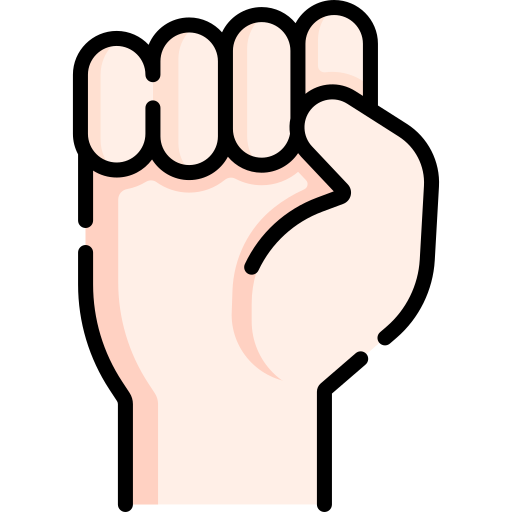
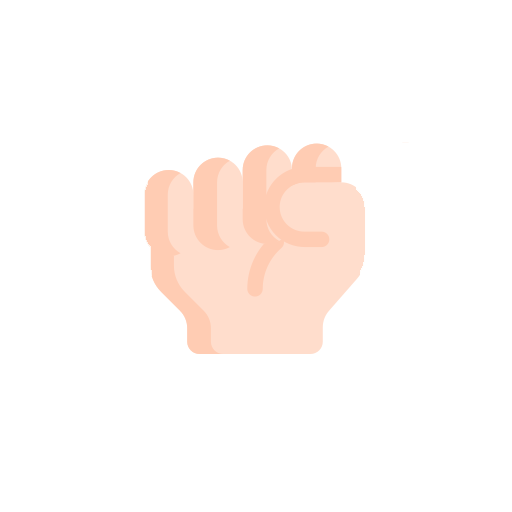
style: 가위바위보 페이지 수정

Changed region(s): [[0.125, 0.0, 0.875, 1.0], [0.5938, 0.6875, 0.7188, 1.0]]

diff --git a/src/pages/Game/Rps.js b/src/pages/Game/Rps.js
@@ -7,6 +7,10 @@ import RpsImage from "../../assets/Game/Rps.png";
 import SideBar from "../../components/SideBar/SideBar";
 import SideBarContents from "../../components/SideBar/SideBarContents";
 
+import rock from "../../assets/Game/rock.png";
+import paper from "../../assets/Game/paper.png";
+import scissors from "../../assets/Game/scissors.png";
+
 
 const Background = styled.div`
     max-width: 100vw;
@@ -20,8 +24,7 @@ const Background = styled.div`
 `;
 
 const Image = styled.img`
-    width: 50vw;
-    margin-top: 128px;
+    width: 80vw;
 `;
 
 const Title = styled.div`
@@ -39,7 +42,7 @@ const ButtonContainer = styled.div`
 
 const ChoiceButton = styled.button`
     background-color: ${props => props.isSelected ? "#7000FF" : "#333"};
-    justify-content: flex-end; 
+    justify-content: flex-start; 
     align-items: center;
     display: flex;
     flex-direction: column;
@@ -48,7 +51,6 @@ const ChoiceButton = styled.button`
     width: 110px;
     height: 106px;
     margin: 51px 3px 0px;
-    padding-bottom:7px;
     font-size: 14px;
     cursor: pointer;
     border-radius: 4px;
@@ -59,7 +61,15 @@ const ChoiceButton = styled.button`
 
     `;
 
-const Ifwin = styled.div`
+const RPSimg = styled.img`
+    width: 110px;
+    margin: -17%;
+    @media (max-width: 280px) {
+        width: 100px;
+        }
+`
+
+const Text = styled.div`
     margin-top: 48px;
     font-size: 14px;
     @media (max-width: 280px) {
@@ -108,17 +118,24 @@ const Rps = () => {
             <Logo /> {/*수정필요..*/}
             <SideBar><SideBarContents/></SideBar>
             <Title>수리와 가위바위보 하기</Title>
-            <Image src={RpsImage} alt="가위바위보이미지" />
+            <Text style={{marginTop:"12px"}}>수리를 이길 수 있을까?</Text>
+            <Image src={RpsImage} alt="수리이미지" />
             
 
 
             <ButtonContainer>
-            <ChoiceButton isSelected={selectedChoice === "가위"} onClick={() => handleChoiceClick("가위")}>가위</ChoiceButton>
-                <ChoiceButton isSelected={selectedChoice === "바위"} onClick={() => handleChoiceClick("바위")}>바위</ChoiceButton>
-                <ChoiceButton isSelected={selectedChoice === "보"} onClick={() => handleChoiceClick("보")}>보</ChoiceButton>
+                <ChoiceButton isSelected={selectedChoice === "가위"} onClick={() => handleChoiceClick("가위")}>
+                    <RPSimg src={scissors}/>가위
+                </ChoiceButton>
+                <ChoiceButton isSelected={selectedChoice === "바위"} onClick={() => handleChoiceClick("바위")}>
+                    <RPSimg src={rock}/>바위
+                </ChoiceButton>
+                <ChoiceButton isSelected={selectedChoice === "보"} onClick={() => handleChoiceClick("보")}>
+                    <RPSimg src={paper}/>보
+                </ChoiceButton>
             </ButtonContainer>
 
-            <Ifwin>가위바위보에서 이기면 100P를 얻을 수 있어요!</Ifwin>
+            <Text>가위바위보에서 이기면 100P를 얻을 수 있어요!</Text>
             <ConfirmButton onClick={handleConfirmClick}>가위바위보 !</ConfirmButton>
         </Background>
         </div>

diff --git a/src/pages/Minting.js b/src/pages/Minting.js
@@ -46,7 +46,6 @@ const Minting = () => {
     font-weight: 800;
     margin-top: 35px;
     margin-left: 10px;
-    font-family: 'Inter';
   `;
 
   const KoYonDivRed = styled.div`
@@ -56,7 +55,6 @@ const Minting = () => {
     font-weight: 800;
     margin-top: 35px;
     margin-left: 10px;
-    font-family: 'Inter';
   `;
 
   const KoYonDivBlue = styled.div`
@@ -66,7 +64,6 @@ const Minting = () => {
     font-weight: 800;
     margin-top: 35px;
     margin-left: 10px;
-    font-family: 'Inter';
   `;
 
   const NewEventDiv = styled.div`
@@ -77,7 +74,6 @@ const Minting = () => {
     text-align: center;
     color: black;
     font-size: 25px;
-    font-family: 'Inter';
     font-weight: 800;
     margin-top: 30px;
     line-height: 34px;
@@ -95,7 +91,6 @@ const Minting = () => {
     border-radius: 10px;
     text-align: center;
     color: white;
-    font-family: 'Inter-Bold';
     font-size: 35px;
     font-weight: 700;
     margin-top: 15px;
@@ -129,7 +124,6 @@ const Minting = () => {
     color: #f5f5f5;
     text-align: center;
     font-size: 16px;
-    font-family: 'Inter';
     font-weight: 800;
     margin-right: 50px;
     margin-top: 20px;
@@ -142,7 +136,6 @@ const Minting = () => {
     color: #f5f5f5;
     text-align: center;
     font-size: 16px;
-    font-family: 'Inter';
     font-weight: 800;
     margin-left: 50px;
     margin-top: 20px;
@@ -169,7 +162,6 @@ const Minting = () => {
     text-align: center;
     color: black;
     font-size: 20px;
-    font-family: 'Inter';
     font-weight: 800;
     margin-bottom: 10px;
   `;
@@ -180,7 +172,6 @@ const Minting = () => {
     text-align: center;
     color: black;
     font-size: 20px;
-    font-family: 'Inter';
     font-weight: 300;
   `;
 

diff --git a/src/components/SideBar/SideBarContents.js b/src/components/SideBar/SideBarContents.js
@@ -78,7 +78,7 @@ const SideBarContents = ()=> {
         <PointScore>1000P(수정)</PointScore>
         
         <Link to="/minting"><GoAnother style={{marginTop:'52px'}}>민팅하기</GoAnother></Link>
-        <GoAnother>승부예측</GoAnother>
+        <Link to="/bet/intro"><GoAnother>승부예측</GoAnother></Link>
 
         <GoAnother onClick={toggleMiniGame}>미니게임
         {miniGameVisible ? <Down src={downBtn} style={{transform:"rotate(180deg)"}}/> : <Down src={downBtn}/>}
